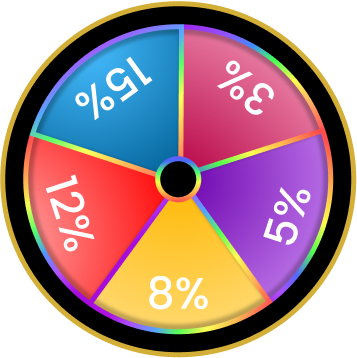
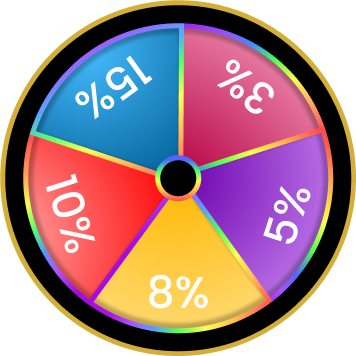
Style Games page

diff --git a/pages/games/spinning-wheel/index.js b/pages/games/spinning-wheel/index.js
@@ -5,11 +5,12 @@ import React from 'react';
 import SpinningWheel from '../../../components/SpinningWheel';
 import styles from "../../../styles/SpinningWheel.module.css"
 import ad from '../../../public/modalAd.jpg'
+import logo from '../../../public/spinningWheelLogo.png'
 
 export default class App extends React.Component {
   constructor() {
     super();
-    this.places = ['3%', '5%', '%8', '10%', '15%'];
+    this.places = ['3%', '5%', '8%', '10%', '15%'];
     this.state = {
       modalOpen: false,
       selected: null
@@ -18,7 +19,7 @@ export default class App extends React.Component {
 
   render() {
     return (
-      <div  className={styles.page}>
+      <div className={styles.page}>
         <Head>
             <link rel="preconnect" href="https://fonts.googleapis.com" />
             <link
@@ -31,14 +32,15 @@ export default class App extends React.Component {
                 rel="stylesheet"
             />
         </Head>
+        <Image src={logo} width={300} height={300} alt="" />
         <h1>
                 Get your Discount&nbsp;
                 <span
                     style={{
-                        fontSize: "4rem",
+                        fontSize: "3rem",
                         display: "inline-block",
-                        height: "2rem",
-                        marginTop: "-2rem",
+                        height: "1.5rem",
+                        marginTop: "-1.5rem",
                         color: 'black'
                     }}
                 >
@@ -47,10 +49,10 @@ export default class App extends React.Component {
             </h1>
         <SpinningWheel handleModal={(result) => this.setState({selected: result, modalOpen: true})}/>
         <Modal open={this.state.modalOpen} onClose={() => this.setState(c => ({...c, modalOpen: false}))}>
-          <div style={{display: 'flex', flexDirection: 'column', alignItems: 'center', justifyContent: 'center', textAlign: 'center',position: 'absolute', top: '20vh', left: '10vw', height: '60vh', width: '80vw', backgroundColor: 'black', color: 'black', padding: '10px'}}>
-            <div className={styles.modalAd}><Image objectFit="cover" src={ad} alt="" /></div>
-            <h1 className={styles.modalHead}>You got {this.places[this.state.selected]} discount!</h1>
-          </div>
+            <div style={{display: 'flex', flexDirection: 'column', alignItems: 'center', justifyContent: 'center', textAlign: 'center', borderRadius: '5px', position: 'absolute', top: '15vh', left: '10vw', height: '70vh', width: '80vw', backgroundColor: 'black', color: 'black', padding: '10px'}}>
+                <div className={styles.modalAd}><Image objectFit="cover" src={ad} alt="" /></div>
+                <h1 className={styles.modalHead}>You got {this.places[this.state.selected]} discount!</h1>
+            </div>
         </Modal>
       </div>
     );

diff --git a/pages/games/index.js b/pages/games/index.js
@@ -3,6 +3,7 @@ import Head from 'next/head'
 import styles from "../../styles/Games-Tab.module.css"
 import logo from "../../public/spinningWheelLogo.png"
 import { useRouter } from 'next/router'
+import Footer from '../../components/Footer'
 
 function Games() {
     const router = useRouter()
@@ -11,9 +12,9 @@ function Games() {
             <Head>
                 <link rel="preconnect" href="https://fonts.googleapis.com" />
                 <link rel="preconnect" href="https://fonts.gstatic.com" crossOrigin={true}/>
-                <link href="https://fonts.googleapis.com/css2?family=Varela+Round&display=swap" rel="stylesheet"/>
+                <link href="https://fonts.googleapis.com/css2?family=Rock+Salt&family=Varela+Round&display=swap" rel="stylesheet"/>
             </Head>
-            <div  className={styles.card} onClick={() => router.push('/games/spinning-wheel')}>
+            <div className={styles.card} onClick={() => router.push('/games/spinning-wheel')}>
                 <Image src={logo} width={200} height={200} alt=""/>
             </div>
             <div style={{display: "flex", width: '100vw', flexWrap: 'wrap', alignItems: 'center', justifyContent: 'space-evenly'}}>
@@ -24,6 +25,7 @@ function Games() {
                     <h1 data-text="SQUAD">SQUAD</h1>
                 </div>
             </div>
+            <Footer/>
         </div>
     )
 }

diff --git a/pages/api/admin/test.js b/pages/api/admin/test.js
@@ -7,8 +7,8 @@ const handler = async(req, res) => {
         case 'GET':
             mongo.MongoClient.connect(process.env.MONGO_URI, (err, client) => {
               const bucket = new mongo.GridFSBucket(client.db('theMenu'), {bucketName: 'Menus'})
-              createReadStream('./temp/1633807193632.json').
-              pipe(bucket.openUploadStream('1633807193632.json', {contentType: 'application/json'})).
+              createReadStream('./temp/1633897904145.json').
+              pipe(bucket.openUploadStream('1633897904145.json', {contentType: 'application/json'})).
               on('error', function(error) {
                 console.log(error);
               }).
@@ -23,7 +23,7 @@ const handler = async(req, res) => {
                 const bucket = new mongo.GridFSBucket(client.db('theMenu'), {bucketName: 'Menus'})
                 bucket.delete(mongoose.Types.ObjectId(req.query.id), (err) => {
                     if(!err){
-                        createReadStream('./temp/1633844086472.json').
+                        createReadStream('./temp/1633899215850.json').
                         pipe(bucket.openUploadStreamWithId(mongoose.Types.ObjectId(req.query.id), '1633844086472.json', {contentType: 'application/json'})).
                         on('error', function(error) {
                           console.log(error);

diff --git a/pages/joints/[jid].js b/pages/joints/[jid].js
@@ -52,7 +52,7 @@ export default function Joint(){
                 />
             </Head>
             <div style={{display: 'flex', justifyContent: 'flex-start', padding: '10px'}}>
-                <Home fontSize="large" style={{color: 'black'}} onClick={() => {
+                <Home fontSize="large" style={{color: 'black', cursor: 'pointer'}} onClick={() => {
                     router.replace('/')
                 }}/>
             </div>
@@ -75,6 +75,7 @@ export default function Joint(){
                     <h3>{joint.address}</h3>
                     <h4>Cuisines: {joint.cuisine?.join(', ')}</h4>
                     <h4>Opens At: {joint.opensAt ? handleTime(joint.opensAt) : null}</h4>
+                    {joint.phone ? <h4>Contact us at {joint.phone}!</h4> : null}
                     <Button style={{width: '200px', alignSelf: 'center'}} variant="contained" color="primary" onClick={() => router.push(`/menus/${joint.menu}?b=1`)}>Check our Menu</Button>
                 </div>
                 <iframe src={joint.directions} width={300} height={225} style={{padding: '5px', border: 'solid 2px black', borderRadius: '5px'}} allowFullScreen loading="lazy"></iframe>

diff --git a/styles/Games-Tab.module.css b/styles/Games-Tab.module.css
@@ -26,7 +26,7 @@
 
 .solo h1, .squad h1{
     position: relative;
-    font-size: 1.5rem;
+    font-size: 2.5rem;
     font-family: 'Varela Round', sans-serif;
     color: white;
     
@@ -56,24 +56,25 @@
     height: 100vh;
     display: flex;
     flex-direction: column;
-    justify-content: space-evenly;
+    justify-content: space-between;
+    padding-top: 30px;
     align-items: center;
     background-image: url("../public/GamesBg.png");
 }
 
 .card{
-    width: 350px;
-    height: 200px;
+    width: 300px;
+    height: 150px;
     background-image: linear-gradient(45deg, #1c0549, #110e16);
     box-shadow: 0 0 20px #150536;
     border-radius: 10px;
-    margin: 50px 20px;
+    margin: 10px 20px;
     padding: 1rem;
     display: flex;
     align-items: center;
     justify-content: center;
-    position: relative;
-    z-index: 3;
+    /* position: relative;
+    z-index: 3; */
     cursor: pointer;
 }
 

diff --git a/styles/SpinningWheel.module.css b/styles/SpinningWheel.module.css
@@ -11,7 +11,7 @@
 
 .page > h1{
     display: inline-block;
-    font-size: 2.6rem;
+    font-size: 2rem;
     padding: 20px;
     border-radius: 10px;
     color: black;
@@ -19,20 +19,20 @@
     font-weight: 800;
     background-color: white;
     text-align: center;
+    margin: 0;
 }
 
 .modalHead{
+    position: relative;
     display: inline-block;
     width: 100%;
     font-size: 1.5rem;
     padding: 0px;
     margin: 0;
     border-radius: 10px;
-    color: black;
     font-family: 'Poppins', sans-serif;
+    color: rgb(255, 255, 255);
     font-weight: 800;
-    background-color: white;
-    text-align: center;
 }
 
 .modalAd{
@@ -47,6 +47,7 @@
     flex-direction: column;
     align-items: center;
     justify-content: space-around;
+    margin: 20px 0;
 }
 
 .container>div:nth-child(1){

diff --git a/models/Joints.js b/models/Joints.js
@@ -10,9 +10,8 @@ const JointsSchema = new mongoose.Schema({
     menu: {type: String, required: true},
     blogs: {type: String},
     photos: {type: String},
-    traffic: {type: Map, of: Map}
+    traffic: {type: Map, of: Map},
+    phone: {type: String}
 });
-
-// const h = {"name":"The Wood Apple","address":"Pradhan Nagar, Siliguri","directions":"https://www.google.com/maps/dir/?api=1&destination=26.7285091000,88.4164625000","cuisine":["North Indian","Chinese"],"opensAt":{"$numberDouble":"1000.0"},"menu":{"Soups":[{"name":"Veg Wanton Soup","desc":"Clear soup with veggies and juicy dumplings.","isVeg":true,"spicy":{"$numberDouble":"0.0"},"price":{"$numberDouble":"170.0"}}]},"blogs":[{}],"photos":[]}
 
 module.exports = mongoose.models.Joint || mongoose.model('Joint', JointsSchema, 'Joints');

diff --git a/components/GamesTab.js b/components/GamesTab.js
@@ -5,11 +5,11 @@ export default function GamesTab(){
     const router = useRouter()
     return (
         <div className={styles.gamesTab}>
-            <div className={styles.solo} onClick={() => router.push('/games/spinning-wheel')}>
-                <h1 data-text="Spinning Wheel">Spinning Wheel</h1>
+            <div className={styles.solo} onClick={() => router.push('/games/solo')}>
+                <h1 data-text="SOLO">SOLO</h1>
             </div>
-            <div className={styles.squad} onClick={() => router.push('/games/chess')}>
-                <h1 data-text="Let's Play Chess">Let&apos;s Play Chess</h1>
+            <div className={styles.squad} onClick={() => router.push('/games/squad')}>
+                <h1 data-text="SQUAD">SQUAD</h1>
             </div>
         </div>
     )

diff --git a/pages/menus/[menuId].js b/pages/menus/[menuId].js
@@ -71,7 +71,9 @@ export default function MenuPage(props) {
                     rel="stylesheet"
                 />
             </Head>
-            <h1>
+            <h1 onClick={() => {
+                router.push(`/joints/${menu.jointId}`)
+            }}>
                 {menu.joint}&nbsp;
                 <span
                     style={{

diff --git a/styles/Footer.module.scss b/styles/Footer.module.scss
@@ -1,11 +1,14 @@
 .footer{
+    width: 100vw;
     height: 4rem;
     display: flex;
     align-items: center;
-    justify-content: flex-start;
+    justify-content: center;
     padding: 20px;
     &>h5{
         display: inline-block;
         margin: 0 20px;
     }
+    border-radius: 8px 8px 0 0;
+    background-color: white;
 }

diff --git a/styles/Menu.module.scss b/styles/Menu.module.scss
@@ -41,6 +41,7 @@ $secondary2 : #d4fdfb;
         font-weight: 800;
         background-color: black;
         text-align: center;
+        cursor: pointer;
     }
 
     .menuDrawer{

diff --git a/styles/Header.module.scss b/styles/Header.module.scss
@@ -1,4 +1,5 @@
 .header{
+    width: 100vw;
     padding: 0 0.5rem;
     display: flex;
     flex-direction: column;
